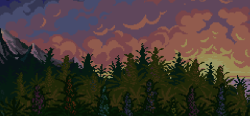
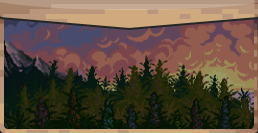
refactoring: minting

diff --git a/src/pages/home/components/Seeding.vue b/src/pages/home/components/Seeding.vue
@@ -2,8 +2,11 @@
 import {getUrlPath} from "../../../core/utils.ts";
 </script>
 <template>
-  <div class="flex border-[3px] border-solid border-[#262626] rounded-[5px] shadow-md w-full h-full">
-    <div :style="`background-image: url('${getUrlPath()}/assets/5.png');`" class="bg-cover bg-center w-full h-full"></div>
+  <div class=" border-[3px] border-solid border-[#262626] rounded-[5px] shadow-md w-full h-full">
+    <div :style="`background-image: url('${getUrlPath()}/assets/5.png');`" class="bg-contain bg-center w-full h-full"></div>
+    <div class="absolute top-0 p-[20px]">
+      Seeding
+    </div>
   </div>
 </template>
 <style scoped>

diff --git a/src/pages/home/components/Pool.vue b/src/pages/home/components/Pool.vue
@@ -2,7 +2,7 @@
 import {getUrlPath} from "../../../core/utils.ts";
 </script>
 <template>
-  <div class="flex border-[3px] border-solid border-[#262626] rounded-[5px] shadow-md w-[30%]">
+  <div class="flex border-[3px] border-solid border-[#262626] rounded-[5px] shadow-md w-[25%]">
     <div
         :style="`background-image: url('${getUrlPath()}/assets/6.png');`"
         class="bg-cover bg-center rounded-[10px] w-full h-full">

diff --git a/src/pages/home/HomePage.vue b/src/pages/home/HomePage.vue
@@ -38,7 +38,7 @@ if (!DEBUG) webApp.BackButton.isVisible = false;
     <Balance/>
     <EventCenter/>
   </div>
-  <div class="flex flex-row gap-[6px] mt-[10px] px-[10px] flex-1 h-[50px]">
+  <div class="flex flex-row gap-[6px] mt-[10px] px-[10px] flex-1 h-[156px] ">
     <Pool/>
     <Seeding/>
   </div>
